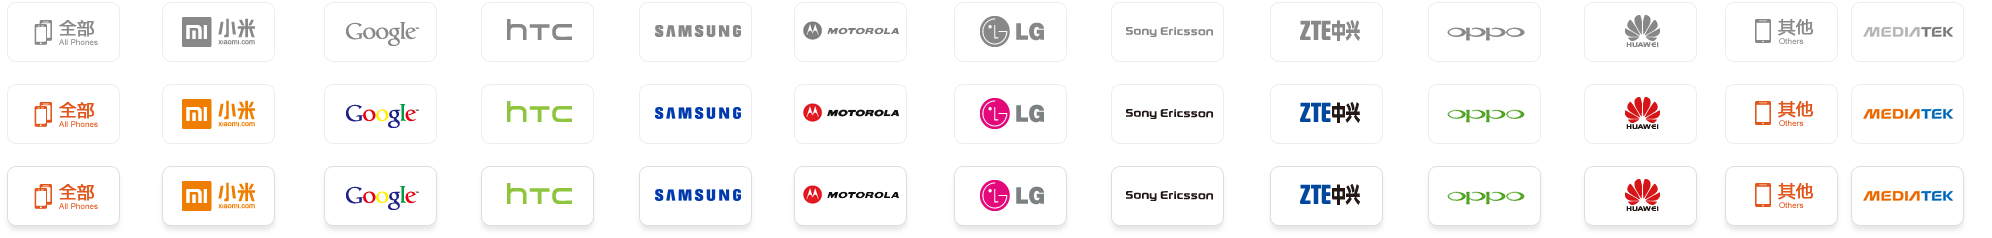
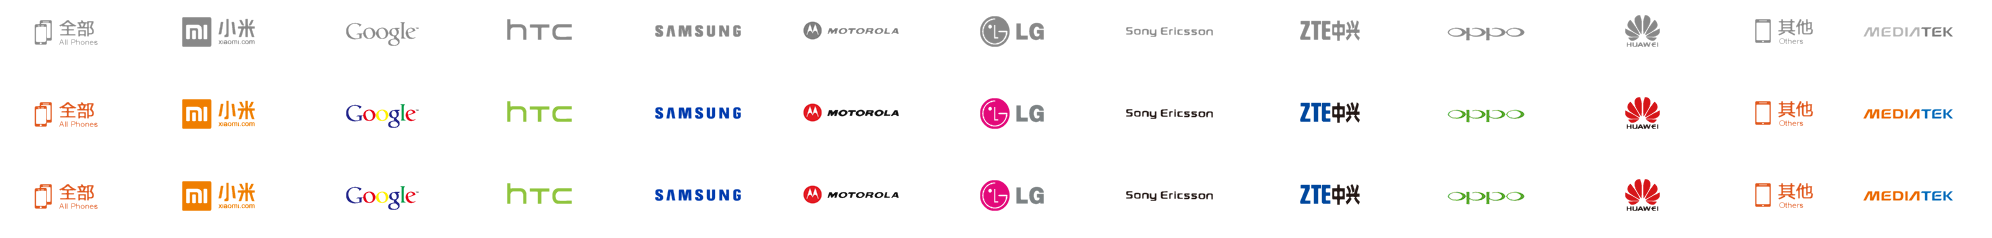
2.4.2
继续完善

diff --git a/pages/css/index.css b/pages/css/index.css
@@ -3,6 +3,13 @@
   src: local("Helvetica Neue Light"),
        url(../font/HelveticaNeueLight.ttf);
 }
+.type .select,.type .correct,.type .error,.type .other{
+	background:url(../images/type/select.gif) no-repeat;
+	overflow:hidden;
+	width:16px;
+	height:16px;
+	display:block;	
+}
 .color_select li{
 	background:url(../images/sprite.png) no-repeat;
 }
@@ -558,8 +565,8 @@
 	margin:10% 0;
 }
 .app  .gallery .slide01 .section .img_cont{
-width: 769px;
-height: 92.6%;
+width: 64%;
+height: 79%;
 position: absolute;
 margin:auto;
 left: 0;
@@ -586,7 +593,8 @@ filter:alpha(opacity=0);
 }
 .app  .gallery .slide02 .section .title_cont{
     width        : 30%;
-    top          : 10%;
+    top          : 0;
+    bottom          : 0;
 	height:25%;
     margin  : auto;
     right        : 10%;
@@ -594,6 +602,7 @@ filter:alpha(opacity=0);
 	filter:alpha(opacity=0);
 	opacity:0;
 	z-index:999;
+	text-align:right;
 }
 .app  .gallery .slide02 .section .title_cont img{
 	/* max-width:100%; */
@@ -606,10 +615,12 @@ filter:alpha(opacity=0);
 	position:absolute;
 	/* width:150%; */
 	/* height:60%; */
-	bottom:0;
+	bottom:-.5%;
 	left:-30%;
 	z-index:998;
+	width:50%;
 }
+
 
 /*type*/
 .type .header .navbar {
@@ -644,7 +655,7 @@ filter:alpha(opacity=0);
 }
 .type .categorys{margin-bottom:15px; }
 .type .categorys li{ width: 158px; margin: 10px 2px 0px 6px; height: 80px; background: url(../images/type/categorys.png) no-repeat 1px 0; float: left; display: inline; }
-.type .categorys li p{ margin-left: 8px; width: 113px; height: 60px; cursor: pointer; }
+.type .categorys li p{ margin:0 auto; width: 142px; height: 66px; cursor: pointer;position:relative;border:solid 1px #CCC;}
 .type .phones{
 	background-color:#f4f4f4;
 	border-top:1px solid #CCC;
@@ -662,10 +673,36 @@ filter:alpha(opacity=0);
 	color:#999;
 	margin-top:15px;
 	font-size:1.4em;
+	line-height:16px;
+	height:16px;
 }
 .type .phonesCont{
 	margin-bottom:30px;
 }
+.type .categorys .select{
+	position:absolute;
+	bottom:8px;
+	right:8px;
+}
+.type .error{
+	background-position:0 -42px;
+	display:inline-block;
+	vertical-align:middle;
+	margin-left:8px;	
+}
+.type .correct{
+	background-position:0 -21px;
+	display:inline-block;
+	vertical-align:middle;
+	margin-left:8px;	
+}
+.type .other{
+	background-position:0 -64px;
+	display:inline-block;
+	vertical-align:middle;
+	margin-left:8px;
+}
+
 
 
 @media (max-width: 319px){
@@ -1171,10 +1208,10 @@ width: 74%;
 
 
 @media  (min-width:1025px) and (max-width: 1366px){
-	.app .gallery .slide01 .section .img_cont{
+	/* .app .gallery .slide01 .section .img_cont{
 		width:65%;
 		height:70%;
-	}
+	} */
 }
 
 @media  (min-width:1441px) {
@@ -1200,13 +1237,13 @@ width: 74%;
 		margin-top:-365px;
 	} */
 	.app .gallery .slide01 .section .img_cont{
-		width:840px;
-		height:auto;
+		/* width:840px;
+		height:auto; */
 	}
-	.app .slide02 .img_cont{
+	/* .app .slide02 .img_cont{
 		width:1170px;
 		height:auto;	
-	}
+	} */
 }
 @media  (min-width: 1681px){
 	.wrapper .gallery .slide .section{
@@ -1217,11 +1254,11 @@ width: 74%;
 		width:100%;
 	}
 	.app .gallery .slide01 .section .img_cont{
-		width:68%;
-		height:auto;
+		/* width:64%; */
+		/* height:auto; */
 	}
 	.app .slide02 .img_cont{
-		width:57%;
+		/* width:47%; */
 		height:auto;	
 	}	
 }

diff --git a/pages/type/index.html b/pages/type/index.html
@@ -38,7 +38,7 @@
                             <li><a href="../home/index.html">Home</a></li>
                             <li><a href="../app/index.html">APP</a></li>
                             <li><a href="#">Feedback</a></li>
-                            <li><a href="#">BBS</a></li>
+                            <li><a href="../type/index.html">BBS</a></li>
                             <li><span class="vline"></span></li>
                             <li><a class="button" id="btnsignin" href="#">Login</a></li>
                             <li><a class="button" id="btnsignup" href="#">Sign</a></li>
@@ -80,8 +80,8 @@
 						<h1 class="span3 f24 red">按品牌查看</h1>
 					</div>
 					<ul class="categorys layout">
-                            <li style="background-position: -140px -84px;">
-                                    <p name="all" class="phover"></p>
+                            <li style="background-position: -140px -80px;">
+                                    <p name="all" class="phover"><i class="select"></i></p>
                             </li>
                             <li>
                                     <p name="1"></p>
@@ -117,19 +117,19 @@
 								<div class="phone_img">
 									<img src="../images/type/phone01.png" alt=""/>
 								</div>
-								<p>中兴 N5</p>
+								<p>中兴 N5 <i class="correct"></i></p>
 							</li>
 							<li class="items">
 								<div class="phone_img">
 									<img src="../images/type/phone01.png" alt=""/>
 								</div>
-								<p>中兴 N5</p>
+								<p>中兴 N5<i class="error"></i></p>
 							</li>
 							<li class="items">
 								<div class="phone_img">
 									<img src="../images/type/phone01.png" alt=""/>
 								</div>
-								<p>中兴 N5</p>
+								<p>中兴 N5<i class="other"></i></p>
 							</li>
 							<li class="items">
 								<div class="phone_img">
@@ -221,7 +221,7 @@
 		<script type="text/javascript" src="../js/type.js"></script>
 		<script type="text/javascript">
 			var positionX = ["-140px", "-298px", "-456px", "-614px", "-772px", "-930px", "-1088px", "-1246px", "-1404px", "-1562px", "-1676px", "-1550px"];
-	var positionY = [" -2px", " -84px", " -166px"];
+	var positionY = [" 2px", " -80px", " -162px"];
 			var categorys = ["小米","Google","HTC","Samsung","MOTO","LG","索爱","中兴","OPPO","华为","MTK","其他品牌"];
 			function liHover() {
 				var index = $("categorys p").index($(this));
@@ -249,6 +249,16 @@
                         }
                 }
 			)
+			$(".categorys p").click(function(){
+				 for (var i = 0; i < lis.length; i++) {
+					lis.eq(i).css("backgroundPosition", positionX[i] + " " + positionY[0]);
+				 }
+				  $(".categorys .phover").removeClass('phover');
+				 $(".categorys .select").remove();
+				  $(this).append('<i class="select"></i>');
+				 var index = $(".categorys p").index($(this));
+                 $(this).addClass('phover').parent().css("backgroundPosition" , positionX[index] + positionY[2]);
+			})
 		</script>
     </body>
 </html>

diff --git a/pages/app/index.html b/pages/app/index.html
@@ -26,7 +26,7 @@
                             <li><a href="../home/index.html">Home</a></li>
                             <li><a href="../app/index.html">APP</a></li>
                             <li><a href="#">Feedback</a></li>
-                            <li><a href="#">BBS</a></li>
+                            <li><a href="../type/index.html">BBS</a></li>
                             <li><span class="vline"></span></li>
                             <li><a class="button" id="btnsignin" href="#">Login</a></li>
                             <li><a class="button" id="btnsignup" href="#">Sign</a></li>
@@ -51,7 +51,7 @@
 											<div class="ico_android_download layout">
 												<img class="ewm" src="../images/app/box1/download.png" alt="扫描二维码"/>
 												
-												<div class="textField f20">
+												<div class="textField f16">
 													<p>Download App at</p>
 													<p><b>Android Market</b></p>
 												</div>

diff --git a/pages/home/index.html b/pages/home/index.html
@@ -25,7 +25,7 @@
                             <li><a href="../home/index.html">Home</a></li>
                             <li><a href="../app/index.html">APP</a></li>
                             <li><a href="#">Feedback</a></li>
-                            <li><a href="#">BBS</a></li>
+                            <li><a href="../type/index.html">BBS</a></li>
                             <li><span class="vline"></span></li>
                             <li><a class="button" id="btnsignin" href="#">Login</a></li>
                             <li><a class="button" id="btnsignup" href="#">Sign</a></li>

diff --git a/pages/js/type.js b/pages/js/type.js
@@ -11,7 +11,7 @@
 		},
 		img:[1000,1000]
 	}
-] */
+] 
 baidu.dom.ready(function(){
 	baidu('#getForm').on('click',function(){
 		baidu('#hand').stop(true,false).animate({
@@ -189,4 +189,4 @@ $(function() {
       $("#submit").click(function() {
         $.jqalert("提交成功！");
       });
-    });
+    });*/
